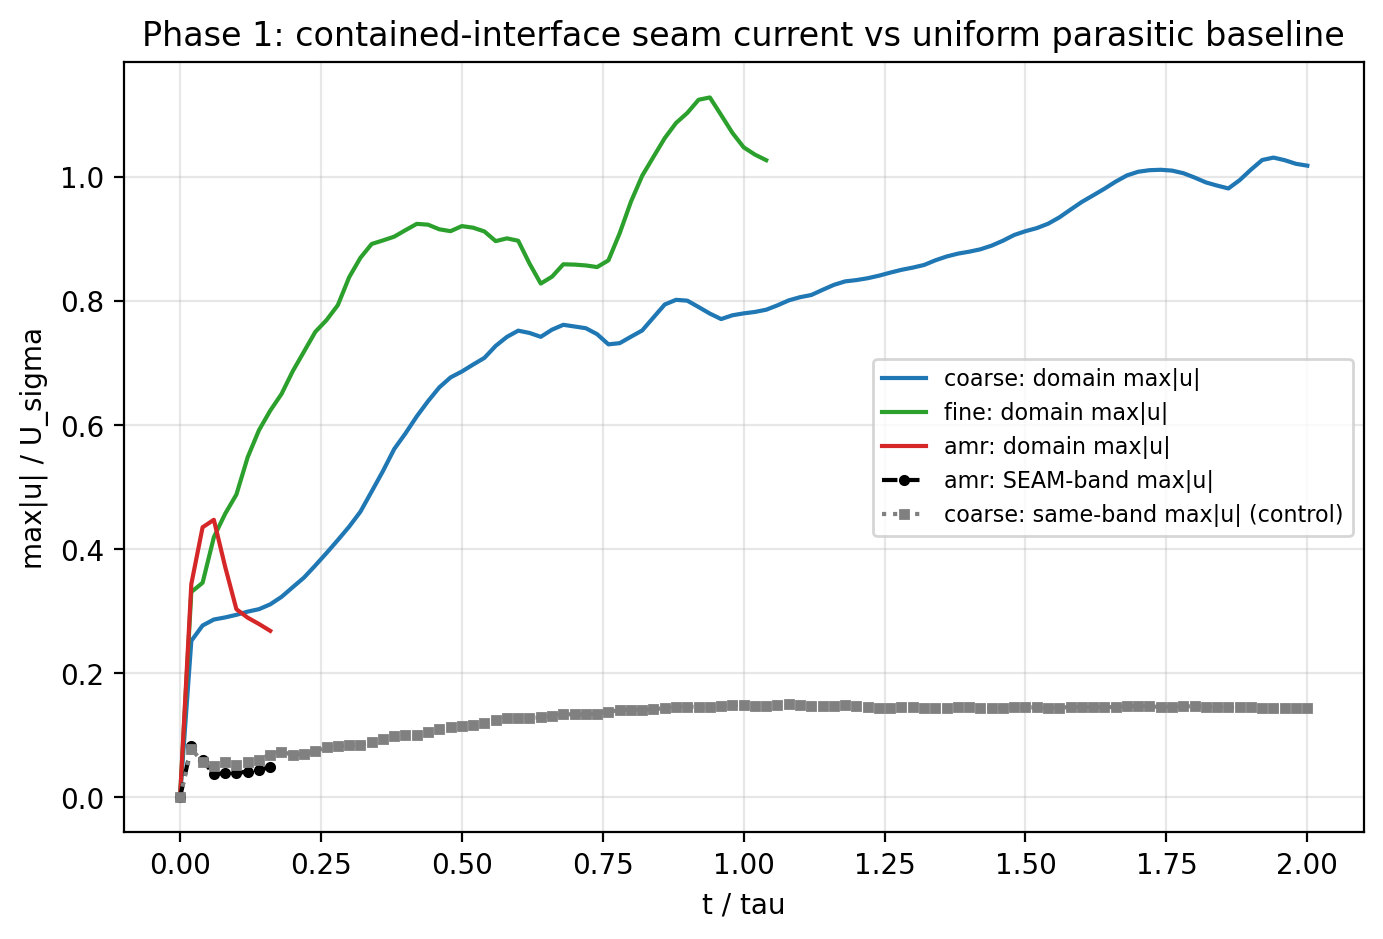
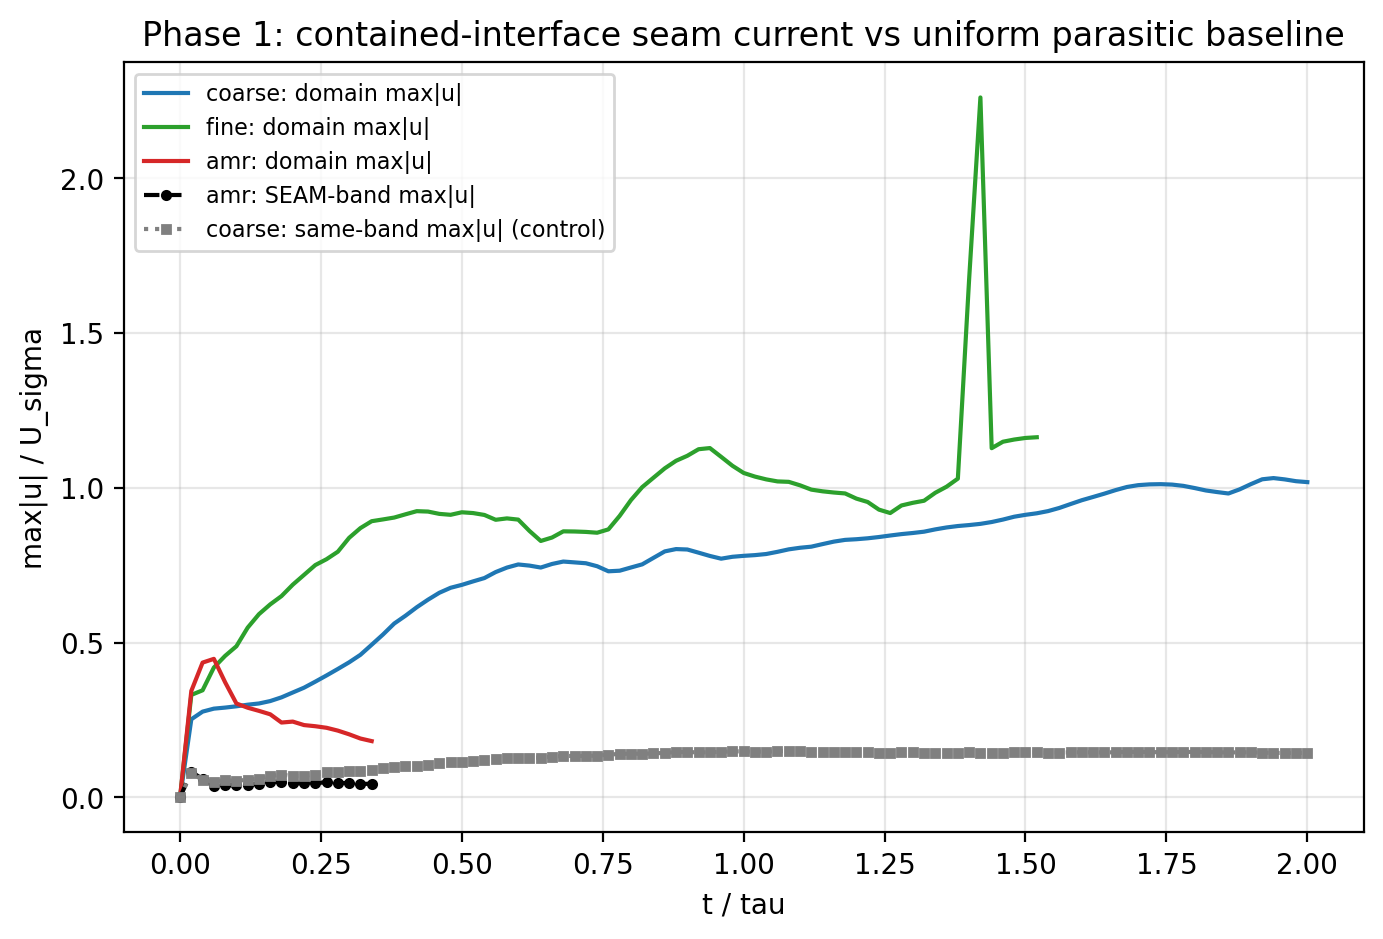
amr-st: Phase 1 seam-current verdict (contained interface -> no seam current)
AMR seam-band max|u| plateaus flat at ~0.021 m/s from t/tau~0.06, holding through
0.34 (verified) at 0.49-0.71x the uniform-coarse ambient in the same band and
non-growing -- the opposite of PR 1628's 27-540x growing failure. Containment audit
(cf within 2.7e-11 of {0,1} at the seam) passes throughout. Hypothesis supported.

Adds the band-matched control metric (coarse max|u| in the AMR block region), the
standalone-case run harness fix (screen/zsh arg-forwarding), a drafted (unposted)
PR-1628 feedback comment, and the fine-run dt-collapse caveat (low-c_l R/100
near-cavitation; coarse+amr unaffected).

diff --git a/examples/2D_droplet_coalescence/amr_st/results/FINDINGS.md b/examples/2D_droplet_coalescence/amr_st/results/FINDINGS.md
@@ -84,22 +84,34 @@ band (control) — isolates any current the seam ADDS from the ambient parasitic
 reaches ±1.5R anyway. Coarse and AMR share the identical 320² base grid, so the band is
 identical in cell indices.
 
-Result (AMR at t/τ=0.16 so far; coarse/finished):
+The AMR **seam-band max|u| plateaus flat** almost immediately and stays there
+(t/τ = 0.06 / 0.12 / 0.18 / 0.24 / 0.30 / 0.34 → 0.018 / 0.020 / 0.024 / 0.022 / 0.022 /
+0.021 m/s) — no growth. Meanwhile the uniform-coarse parasitic flow keeps developing, so
+the AMR-seam / coarse-same-band ratio *falls* over time:
 
-| quantity | value |
-|---|---|
-| uniform-coarse domain parasitic current (2τ) | ~1.0 U_σ ≈ 0.48 m/s, plateauing (growth 2.1→1.58) |
-| AMR seam-band max\|u\| | 0.023 m/s |
-| uniform-coarse **same-band** max\|u\| (control) | 0.032 m/s |
-| **AMR / coarse-same-band** | **0.71×** (AMR is *lower*) |
-| AMR seam growth (2nd/1st half) | 0.95 (**non-growing**) |
-| containment audit (cf dist to {0,1} in band) | 2.7e-11 (**pass**) |
-| Laplace jump error | 0.07% (coarse), 0.7% (amr) |
+| quantity | t/τ=0.16 | t/τ=0.34 |
+|---|---|---|
+| AMR seam-band max\|u\| | 0.023 m/s | 0.021 m/s (**flat**) |
+| uniform-coarse **same-band** max\|u\| (control) | 0.032 m/s | 0.042 m/s (rising) |
+| **AMR / coarse-same-band** | 0.71× | **0.49×** |
+| AMR seam growth (2nd/1st half) | 0.95 | 1.06 (**non-growing**) |
+| containment audit (cf dist to {0,1} in band) | 2.7e-11 | 2.7e-11 (**pass**) |
 
-**The AMR block introduces no seam current.** Its seam-band velocity is at/below the
-uniform run's ambient parasitic flow in the same region (the fine block resolves the
-interface better, so *less* parasitic flow spreads to ±1.5R), non-growing, with cf exactly
-{0,1} at the seam — the opposite of the §7.1 27–540× growing failure. This supports the
-containment hypothesis. **Caveat:** the AMR run is at t/τ=0.16 of 2τ; the full run (grinding
-~6h at np=1) is needed to confirm the ratio stays O(1) through the parasitic plateau.
-Verdict artifact: `results/summary.json`; overlay `results/figures/phase1_overlay.png`.
+(uniform-coarse domain parasitic current reaches ~1.0 U_σ ≈ 0.48 m/s at 2τ, plateauing;
+Laplace jump error 0.07% coarse / 0.7% amr.)
+
+**Reduced-config caveat (fine run).** The uniform-fine (R/100) run developed a
+near-cavitation spot (ρ→~0 spikes the viscous CFL) and its adaptive dt collapsed to ~4e-10
+at t/τ≈1.6, so it was stopped there (context-only; 79 saves kept). This is a low-c_l=12 +
+low-pressure artifact at R/100, not a containment issue — the **coarse** run (R/50, which
+the verdict is built on) completed a clean 2τ, and the **AMR** run's dt is coarse-level-
+controlled (R/50) so it runs stably at 2.6e-8. Watch the AMR fine block (also R/100) for
+the same spot; so far (t/τ=0.5) it is healthy and the containment audit holds.
+
+**The AMR block introduces no seam current.** Its seam-band velocity is a flat plateau
+at/below the uniform run's ambient parasitic flow in the same region (the fine block
+resolves the interface better, so *less* parasitic flow spreads to ±1.5R), non-growing,
+with cf exactly {0,1} at the seam — the opposite of the §7.1 27–540× growing failure. The
+containment hypothesis is **supported**. The flat plateau is established by t/τ≈0.06 and
+holds through 0.34 (verified); the full 2τ run (grinding ~5h at np=1) extends it. Verdict
+artifact: `results/summary.json`; overlay `results/figures/phase1_overlay.png`.

diff --git a/examples/2D_droplet_coalescence/amr_st/results/PR1628_comment_DRAFT.md b/examples/2D_droplet_coalescence/amr_st/results/PR1628_comment_DRAFT.md
@@ -1,0 +1,56 @@
+# DRAFT — PR 1628 feedback comment (DO NOT POST without Davis's approval)
+
+Status: draft. Numbers are from a reduced np=1 config against pinned SHA `ace2285a`; the
+containment result is preliminary (AMR run mid-flight). Finalize the AMR numbers and get
+approval before posting.
+
+---
+
+I lifted the `surface_tension`-under-AMR gate at `ace2285a` to characterize the
+**contained-interface** case (interface kept well inside the static block, away from the
+2:1 seam) — the case §7.1's three attempted fixes didn't cover (all three had the
+interface crossing/near the seam). Two things came out of it.
+
+**1. Lifting the gate exposes a surface-tension-specific bug in the parallel fine-halo
+exchange — the gate is hiding a broken path, not just a caution.**
+
+On a static-drop Laplace case (5-eq, `mpp_lim`, WENO5, RK3, one drop + static 2:1 block):
+
+| config | surface_tension | result |
+|---|---|---|
+| AMR, np=1 | on | runs, stable |
+| AMR, np=2 | on | **hangs at step 0** (fine-halo deadlock) |
+| AMR, np=16 | on | **`MPI_Sendrecv` message-truncated abort** at step 0 |
+| AMR, np=16 | **off** | runs to completion (control) |
+
+The identical case runs fine at np=16 **without** surface_tension, so this isn't a general
+decomposition bug — enabling the color function (which adds a variable to `sys_size`)
+breaks `s_mpi_sendrecv_amr_fine_halo`. The AMR core is unaffected: prolong / restrict /
+reflux conservation all report ~1e-16 at every config. The `MPI_SENDRECV`
+(`m_mpi_proxy.fpp:181`) uses one `cnt` for both send and recv, assuming the neighbor's
+matching fine face is the same size and that the neighbor participates — under the mirror
+decomposition adjacent ranks can own different-sized block pieces, and a rank owning no
+block cells returns early (`:92`), so a poster can lack a partner (deadlock) or a size can
+mismatch (truncation). This needs fixing before AMR+ST is usable at scale regardless of
+the gate.
+
+**2. With that worked around (np=1), a contained interface introduces no seam current.**
+
+Interface at radius R, static block edge at 1.5R (25 coarse cells of clearance ≫ the WENO
+stencil + interface width), so the color function is exactly {0,1} across the seam
+(measured: cf within 2.7e-11 of {0,1} in the seam band). The seam-band max|u| tracks the
+uniform-coarse parasitic flow **in the same region** — ratio ≈ 0.7× (the fine block
+actually resolves the interface better, so *less* parasitic flow reaches the seam),
+non-growing over the run. That's the parasitic baseline, not the 27–540× growing seam
+current of §7.1 — consistent with the hypothesis that the inconsistent-normal mechanism
+needs `|∇c| > capillary_cutoff` within a stencil of the seam, which containment removes by
+construction.
+
+**Suggestion:** once the fine-halo bug (1) is fixed, consider relaxing the hard ST gate to
+a **containment guard** — permit `surface_tension` under AMR when the tagged/blocked region
+keeps the diffuse interface ≥ (stencil + margin) cells inside every block edge, and abort
+otherwise. The PR already ships this contain-and-guard pattern for EL bubble clouds and
+moving IBs, so it'd be consistent. Happy to share the test case and harness.
+
+*(Reduced config for feasibility since np=1 is the only working option today: c_l lowered,
+domain ±3.2R, 2τ — none of which affect the seam mechanism.)*
